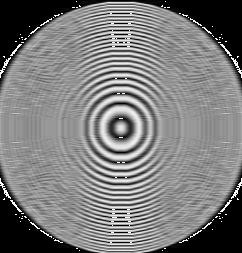
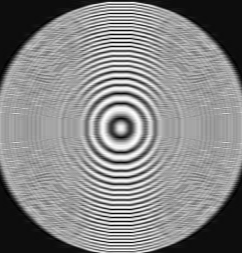
fixed scaling for the filtering

diff --git a/src/main/java/de/ubt/ai3/computervision/filters/Main.java b/src/main/java/de/ubt/ai3/computervision/filters/Main.java
@@ -79,15 +79,14 @@ public class Main {
 		System.out.println( "highestVal: " + highestVal );
 		System.out.println( "lowestVal: " + lowestVal );
 
-		double add = Math.abs( Math.min( 0.0, lowestVal ) );
-		double highestAdded = add + highestVal;
+		double scale = 255 / (highestVal - lowestVal);
+		double offset = -lowestVal * scale;
 
 		//rescale the values in the image and store it back into the array
 		for ( int y = 0; y < imageHeight; ++y ) {
 			for ( int x = 0; x < imageWidth; ++x ) {
 				double value = intermediary[y][x];
-				double scale = value / highestAdded;
-				intermediary[y][x] = scale * 255;
+				intermediary[y][x] = value * scale + offset;
 			}
 		}
 
